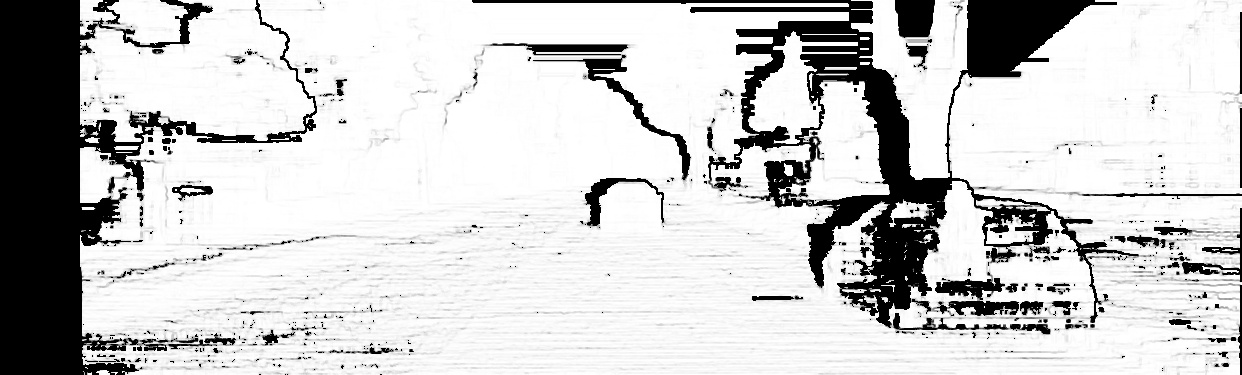
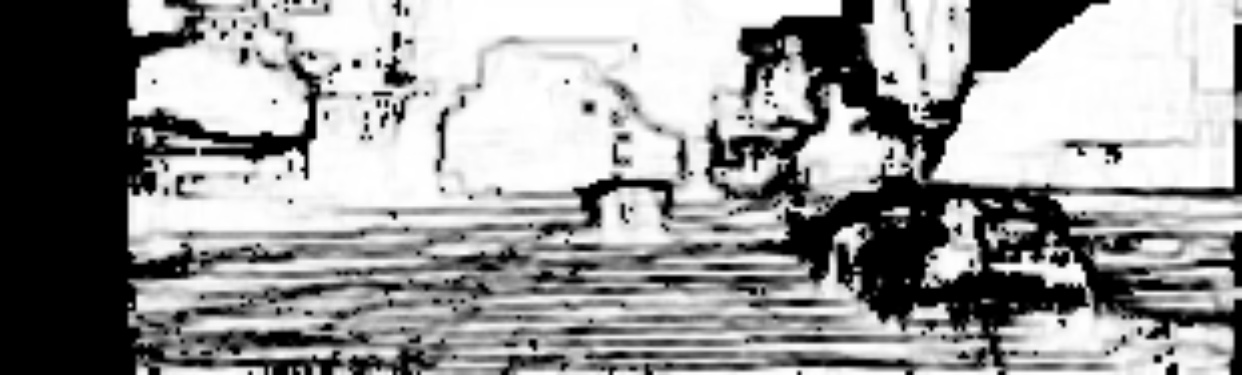
Minor fixes

diff --git a/src/stereo_vision.cpp b/src/stereo_vision.cpp
@@ -1,3 +1,10 @@
+/* Kenneth Jung
+ * Mechatronics Engineering
+ * kennyjung@rogers.com
+ *
+ * Original source taken from Github as a starting point for the code:
+ * https://github.com/opencv/opencv_contrib/blob/master/modules/ximgproc/samples/disparity_filtering.cpp
+*/
 #include "opencv2/calib3d.hpp"
 #include "opencv2/imgproc.hpp"
 #include "opencv2/imgcodecs.hpp"
@@ -11,7 +18,7 @@ using namespace cv;
 using namespace cv::ximgproc;
 using namespace std;
 
-const double DOWNSCALE = 0.5;
+const double DOWNSCALE = 0.25;
 const int WIN_SIZE_SGBM = 1;
 const int MAX_X_GRAD = 25;
 const double SMOOTHING_FACTOR = 4;
